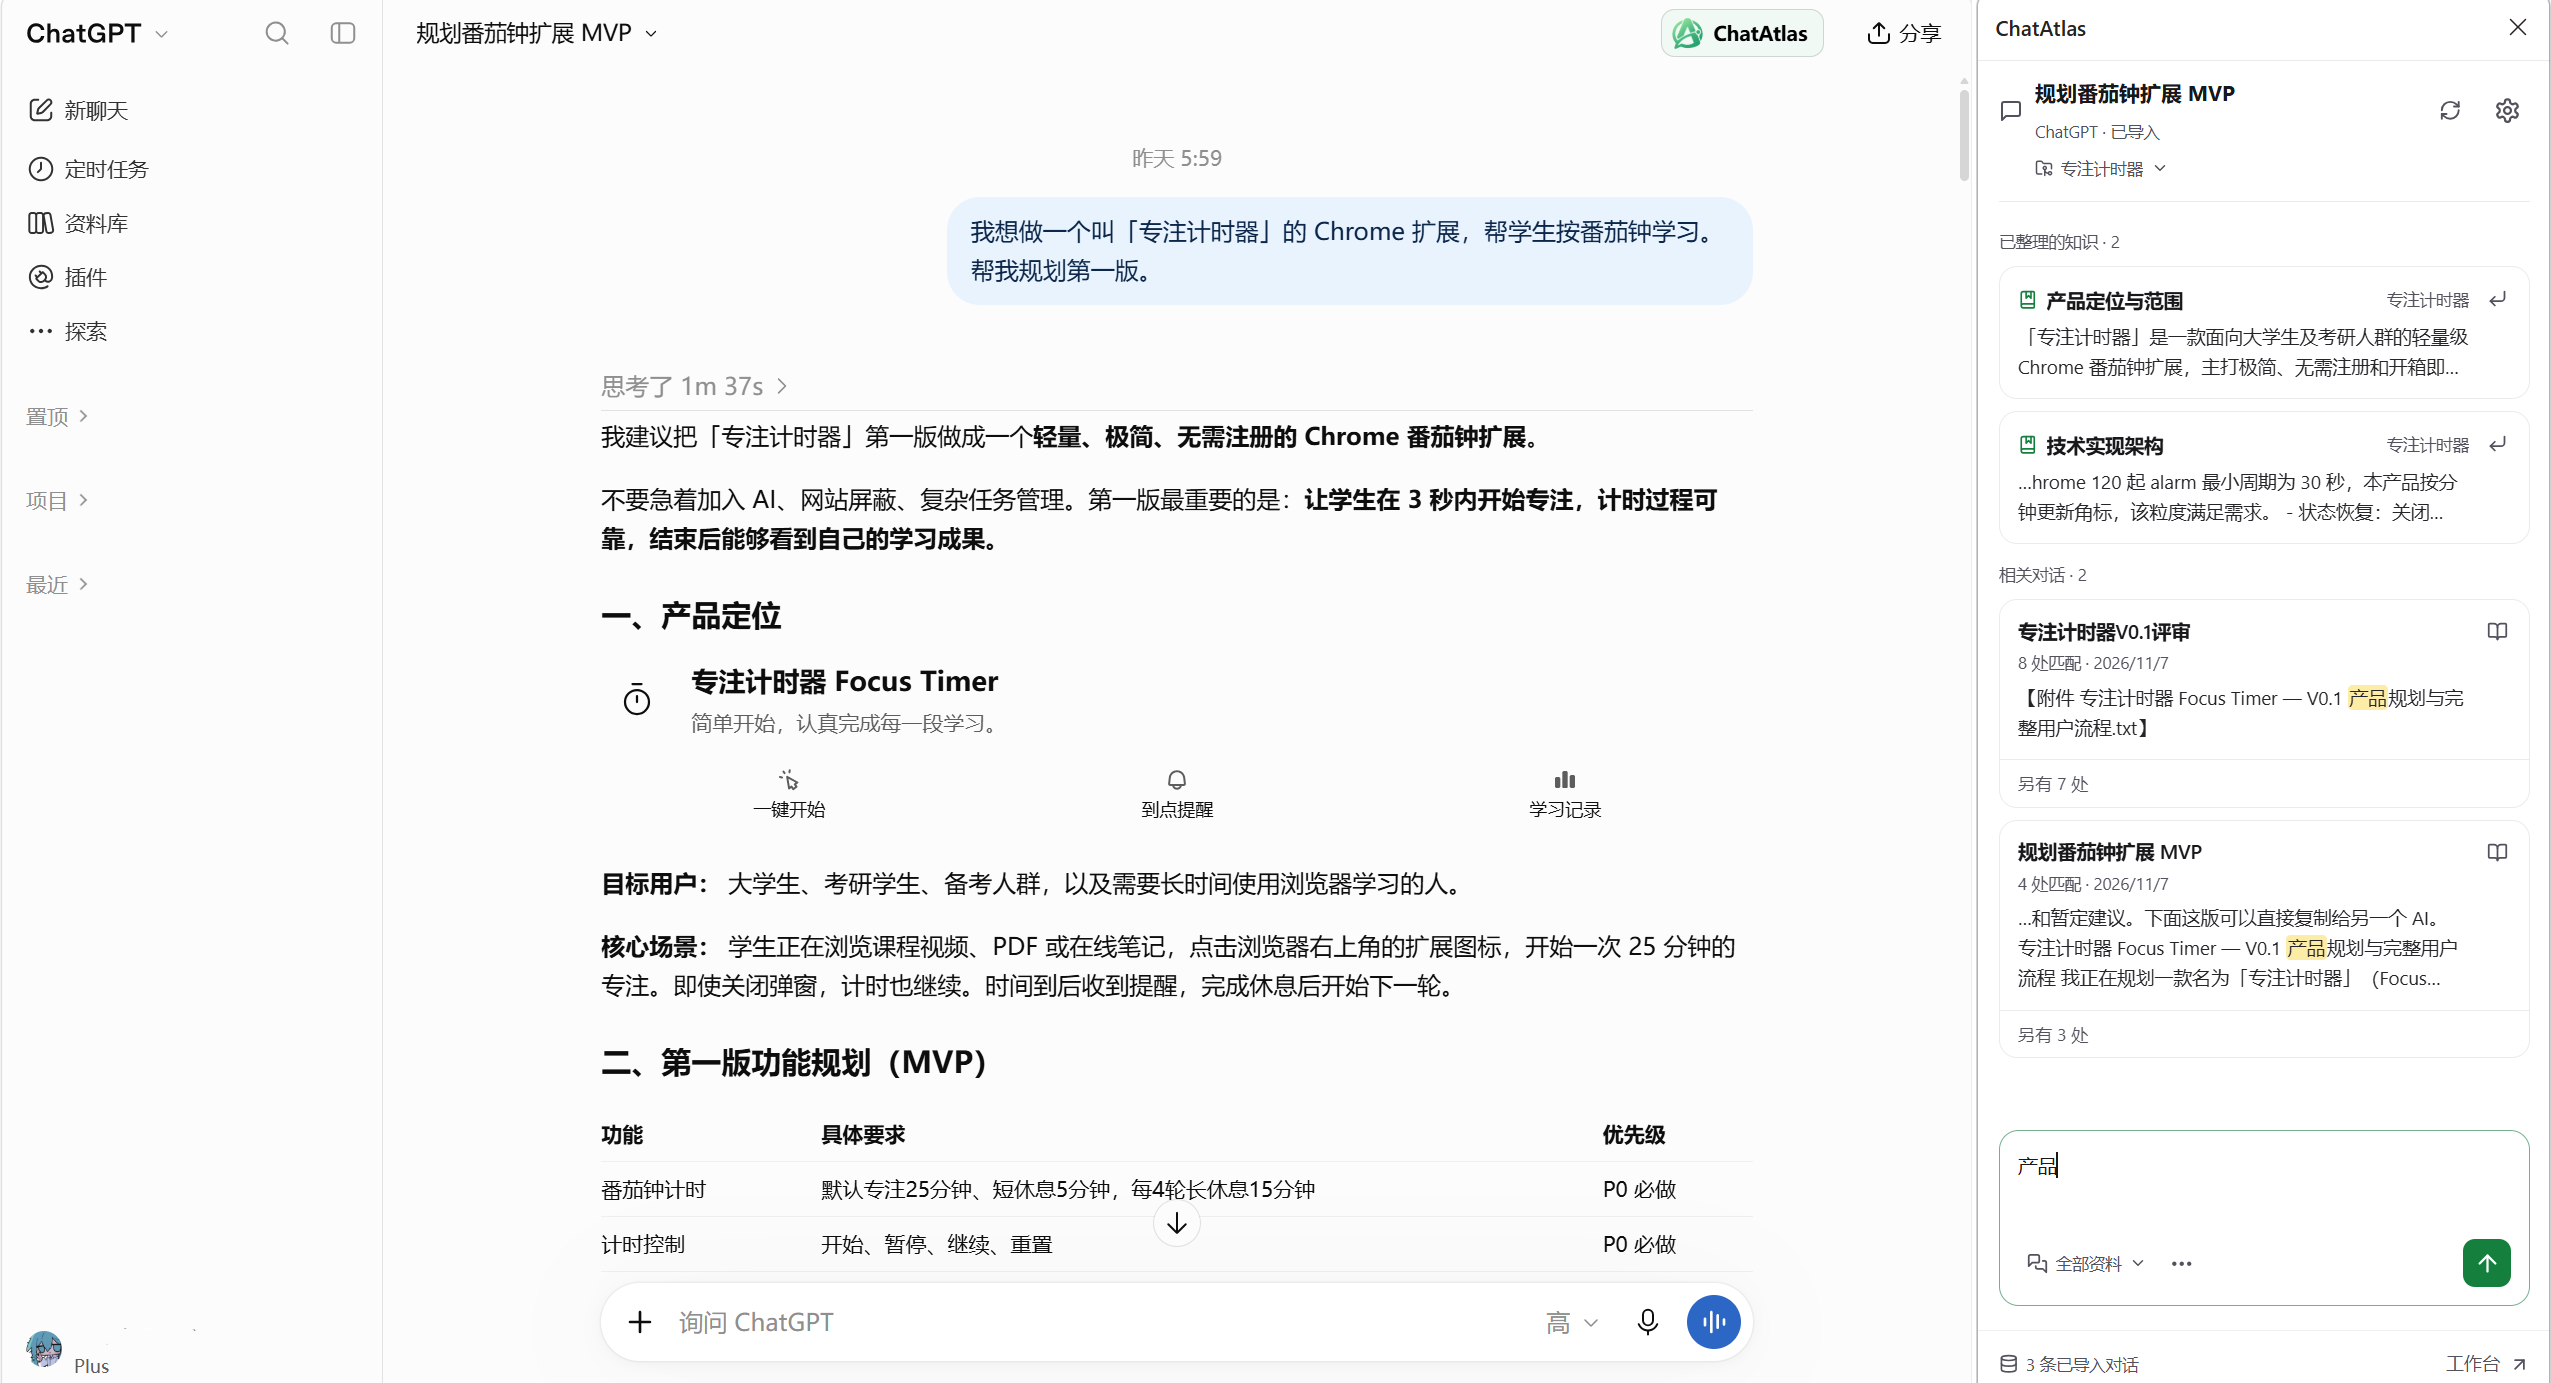
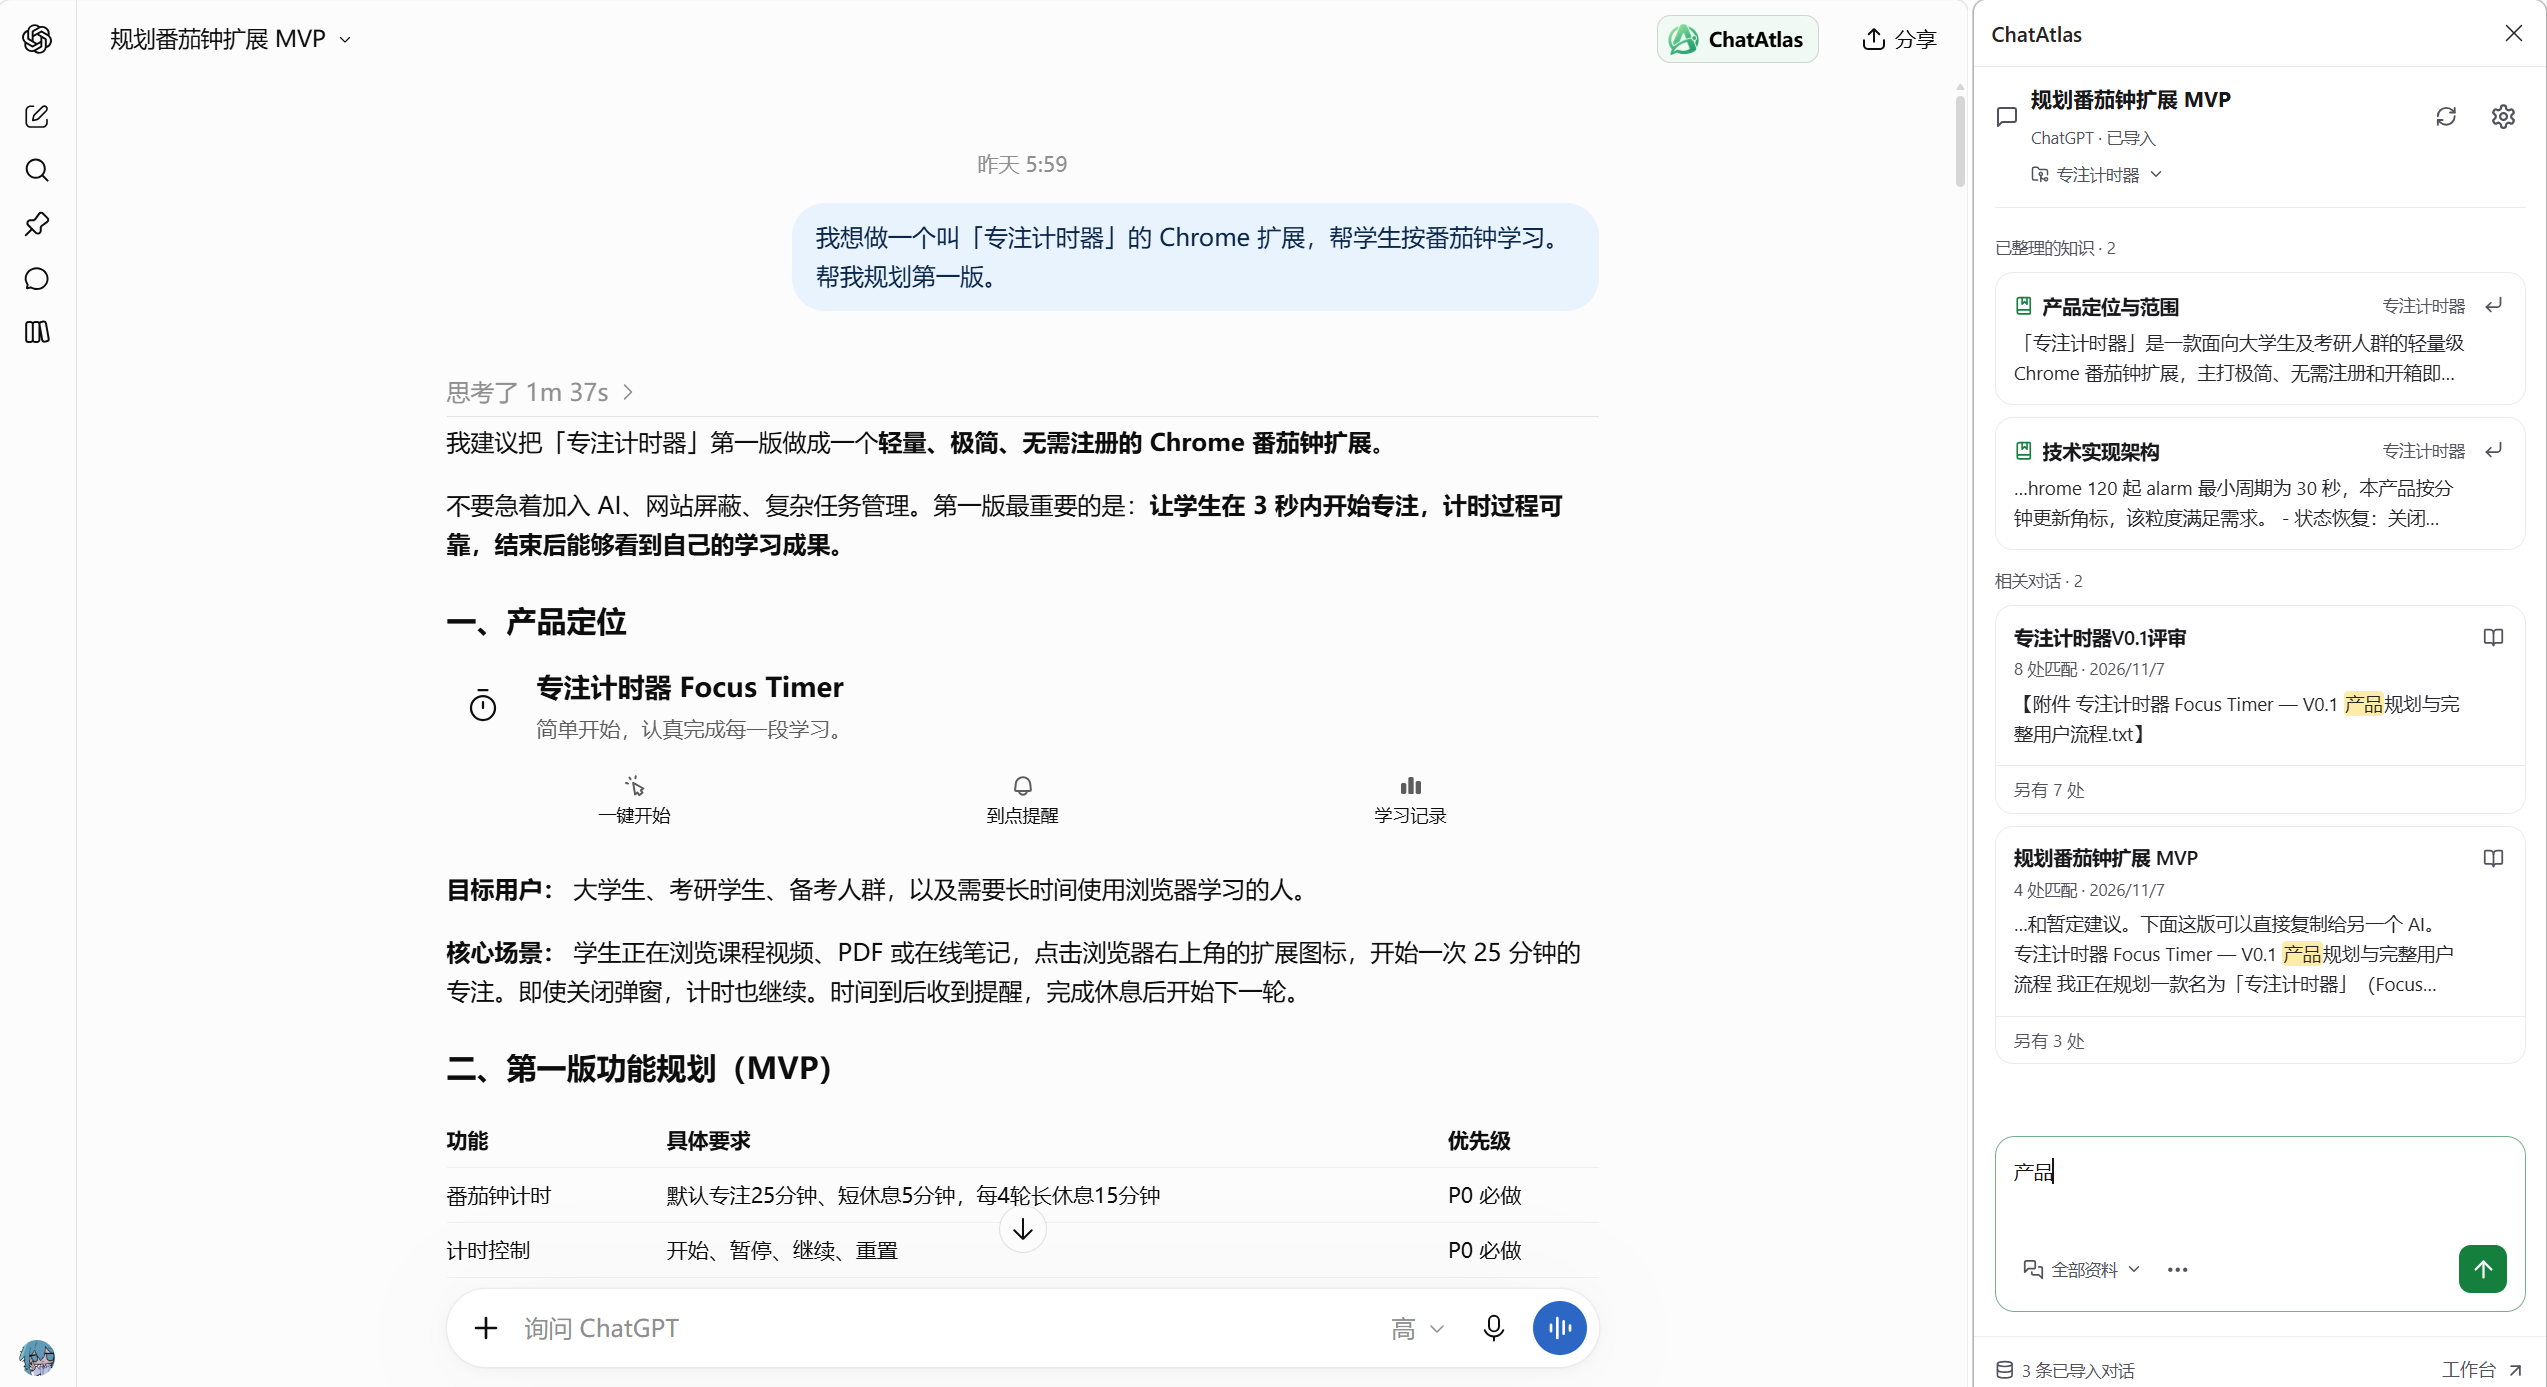
Replace the side panel screenshot and drop the demo GIF placeholder until a recording exists

diff --git a/src/shared/readme-first-experience.test.ts b/src/shared/readme-first-experience.test.ts
@@ -3,11 +3,11 @@ import zh from "../../README.md?raw";
 import en from "../../README.en.md?raw";
 import principles from "../../PRODUCT_PRINCIPLES.md?raw";
 
-it("makes no-key basic search and pending demo visible before the product introduction in both languages",()=>{
+it("makes no-key basic search visible before the product introduction, and shows the product before what it does, in both languages",()=>{
  expect(zh.indexOf("基础搜索不需要 AI Key")).toBeLessThan(zh.indexOf("ChatAtlas 是"));
  expect(en.indexOf("Basic search needs no AI key")).toBeLessThan(en.indexOf("ChatAtlas is"));
- expect(zh).toContain("演示 GIF 占位：待录制");expect(en).toContain("Demo GIF placeholder: recording pending");
- for(const text of [zh,en])expect(text).toContain("<!-- demo-gif-placeholder:");
+ expect(zh.indexOf("docs/images/sidecar-chatgpt-light.png")).toBeLessThan(zh.indexOf("## 能做什么"));
+ expect(en.indexOf("docs/images/sidecar-chatgpt-light.png")).toBeLessThan(en.indexOf("## What it does"));
 });
 it("publishes no empty timing table and walks through installing the release ZIP in both languages",()=>{
  expect(zh).not.toContain("## 生成耗时");expect(en).not.toContain("## Generation time");

diff --git a/README.en.md b/README.en.md
@@ -12,9 +12,6 @@ ChatAtlas is a local-first Chrome extension. It saves your conversations from AI
 
 > **Early preview (0.1.2 Early Preview).** Features, interactions and data structures will still change. Wiki organization is experimental: check what it writes against the sources. Back up local data before upgrading.
 
-> Demo GIF placeholder: recording pending (install → import → search without a key → read originals → organize a Wiki).
-<!-- demo-gif-placeholder: Recording pending; no demo file yet. -->
-
 ![The ChatAtlas side panel next to ChatGPT: organized knowledge and related conversations](docs/images/sidecar-chatgpt-light.png)
 
 <p align="center"><sub>Open the side panel next to an AI website to find organized knowledge and related conversations</sub></p>
